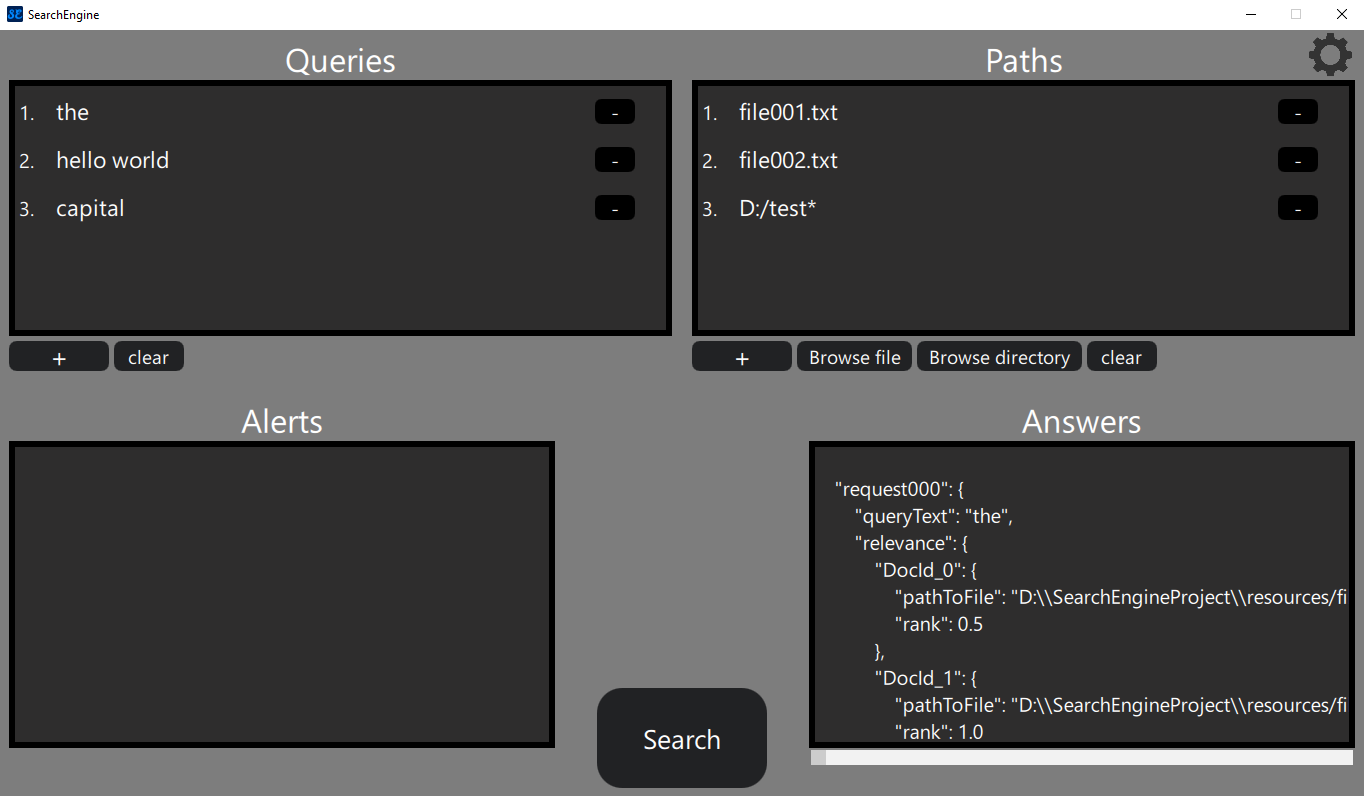
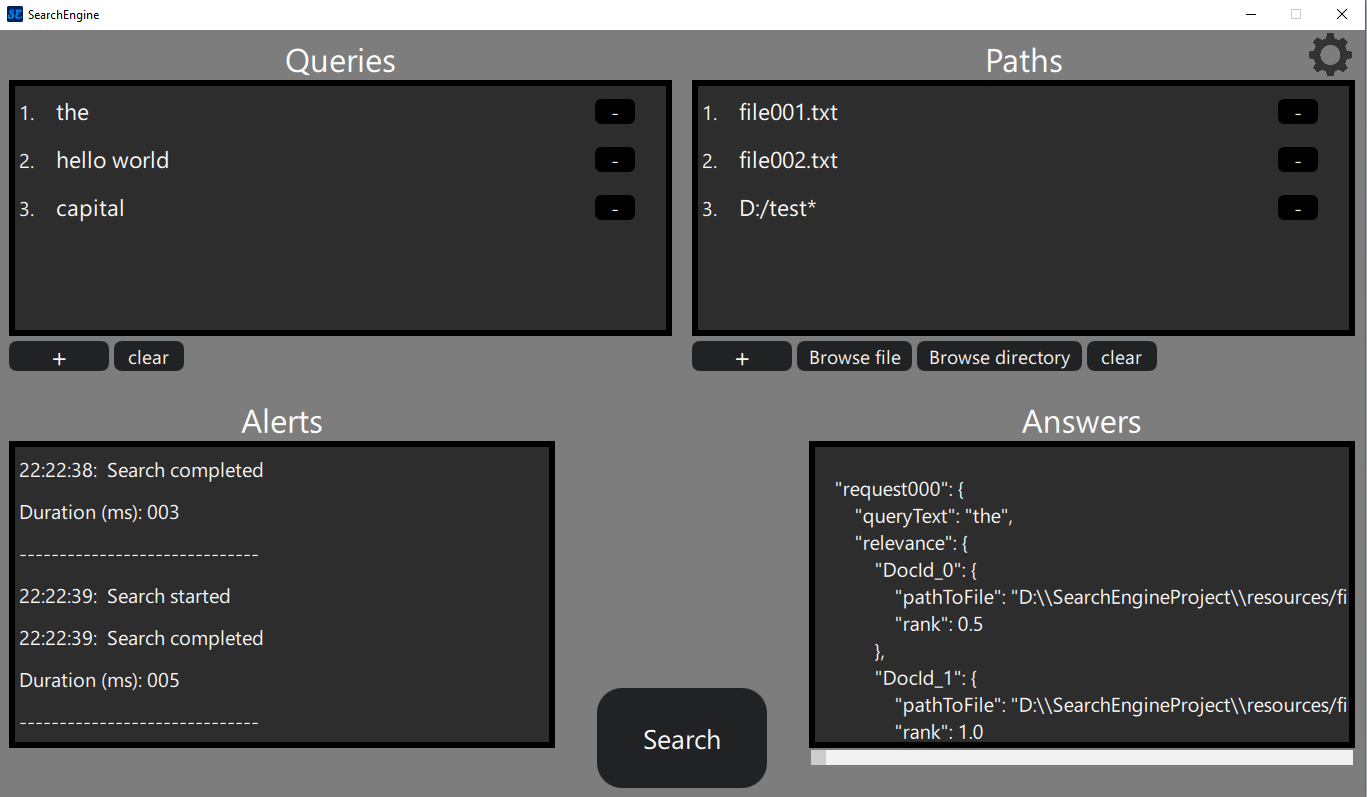
Updated README.md

diff --git a/README.md b/README.md
@@ -65,7 +65,14 @@ If searching procces has been finished with no results, the `relevance` field wo
 ```
 
 ### Alert window
-- earlier
+![alert window](resources/readmeAssets/8.png)
+This window present the useful information for user:
+1. Indicators of start and end of process with appropriate time.
+2. Alerts which report to user about problems during the searching process.
+3. The result duration of searching process.
+
+And as a `Answer window` this is a _read-only_ window.
+
 ### Settings
 To get there, click on the gear icon in the upper right corner of application:\
 ![settings](resources/readmeAssets/7.png)
@@ -86,3 +93,7 @@ In `console` mode, program do only these steps and ultimately close:
 ### Editing json files 
 - For Inputting new paths to files, open the `config.json` file in `jsonFiles` directory and enter new paths into `paths` array. Feature with `*` from `Paths window` works the same way.
 - For inputting new queries , open the `requests.json` file in `jsonFiles` directory and enter new queries into the `requests` array.
+
+
+## Required Tools
+- **Qt**
